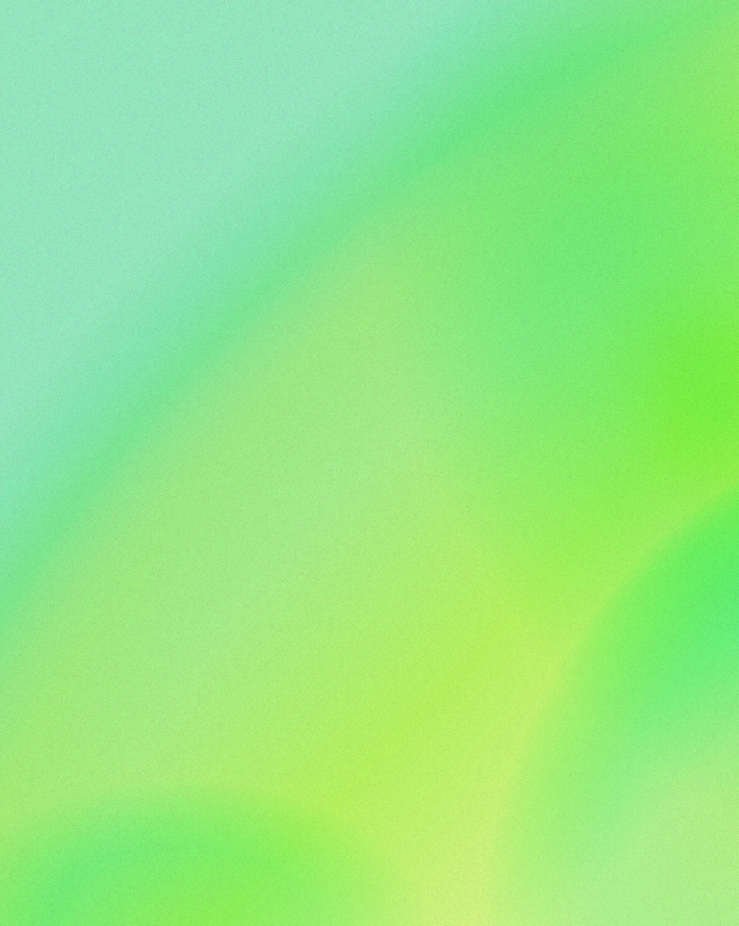
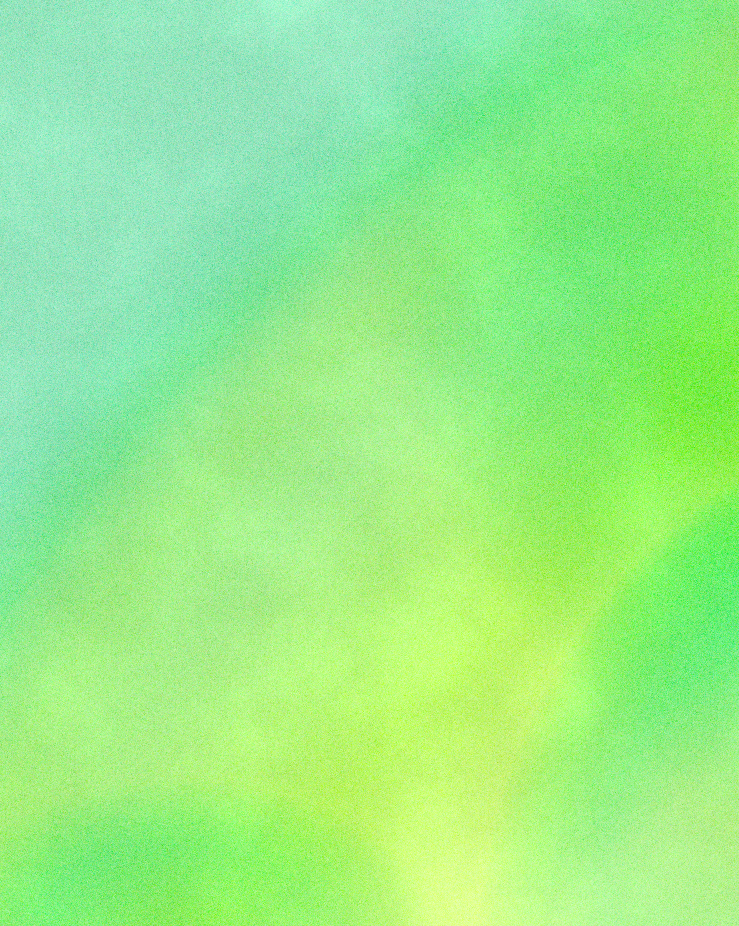
-

diff --git a/style.css b/style.css
@@ -1,72 +1,24 @@
-/*
-:root{
- 
-	--1c:#F1FFCC;
-	--1ch:#FFFCE9;
-	--1s:#F1FFE0;
-	--1sh:#FFF7E0;
-	--1co:#2b5743;
-	--1coh:#622947;
-	
-	--2c:#9dd566;
-	--2ch:#792e56;
-	--2s:#94e367;
-	--2sh:#ae5c87;
-	--2co:#E9FFF0;
-	--2coh:#FED9E5;
-	
-	--3c:#403c73;
-	--3ch:#792e56;
-	--3s:#554f9b;
-	--3sh:#ae5c87;
-	--3co:#E9FFF0;
-	--3coh:#FED9E5;
-	
-	--bg1:#812E53;
-	--bg2:#ac4374;
-	--bg3:#D04B77;
-	
-	--brdrR:40px;
-	--glblShadow:inset 0px 0px 10px;
-	--glblShadow2:0px 2px 4px rgba(0,0,0,.1) , 0px 4px 10px rgba(0,0,0,.1);
-	--glblShadow3:inset 0px 0px 0px 1px rgba(255,255,255,.2);
-	
-	--boxs1:var(--glblShadow3),var(--glblShadow) var(--1s),var(--glblShadow2);
-	--boxs1h:var(--glblShadow) var(--1sh);
-	
-	--boxs2:var(--glblShadow3),var(--glblShadow) var(--2s),var(--glblShadow2);
-	--boxs2h:var(--glblShadow) var(--2sh);
-	
-	--boxs3:var(--glblShadow3),var(--glblShadow) var(--3s),var(--glblShadow2);
-	--boxs3h:var(--glblShadow3),var(--glblShadow) var(--3s),var(--glblShadow2);
-	
-	
-}
-	.card.event,.card.drawer,.tiktok,.instagram,.spotify
-	{
-		border-radius: 99px !important;
-}
-	*/
 :root{
 	--:#;
 	
-	--1c:#FFE8F0;
-	--1ch:#FFFCE9;
-	--1s:#E7FFC9;
-	--1sh:#FFF7E0;
-	--1co:#3e0f25;
-	--1coh:#622947;
+	--1c:#E5FFF0;
+	--1ch:#F2F9F0;
+	--1s:#F0FCE9;
+	--1sh:#FFFAEA;
+	--1co:#2b4610;
+	--1coh:#5a882d;
 	
-	--2c:#FFE8F0;
-	--2ch:#792e56;
-	--2s:#ceffd1;
-	--2sh:#ae5c87;
+	--2c:#EEFFF7;
+	--2ch:#f6fdf6;
+	--2s:#b1ffb6b0;
+	--2sh:#d7ff9e;
 	--2co:#E9FFF0;
 	--2coh:#FED9E5;
 	
 	--3c:#8e2278;
-	--3ch:#842156;
-	--3s:#d52498;
+	--3c:linear-gradient(120.14deg, #D8DB49 0%, #38D3CA 98.67%), linear-gradient(0deg, #C8B44D, #C8B44D);;
+	--3ch:linear-gradient(120.14deg, #D8DBF9 0%, #38D3CA 98.67%), linear-gradient(0deg, #C8B44D, #C8B44D);;
+	--3s:#86ff9fa6;
 	--3sh:#ae5c87;
 	--3co:#E9FFF0;
 	--3coh:#FED9E5;
@@ -77,14 +29,14 @@
 	
 	--brdrR:40px;
 	--glblShadow:inset 0px 0px 10px;
-	--glblShadow2:0px 2px 4px rgba(0,0,0,.1) , 0px 4px 10px rgba(0,0,0,.1);
+	--glblShadow2:0px 0px 4px rgba(0,0,0,.05) , 0px 4px 10px rgba(0,0,0,.1);
 	--glblShadow3:inset 0px 0px 0px 1px rgba(255,255,255,.2);
 	
-	--boxs1:var(--glblShadow3),var(--glblShadow) var(--1s),var(--glblShadow2);
-	--boxs1h:var(--glblShadow) var(--1sh);
+	--boxs1:var(--glblShadow3),var(--glblShadow) var(--1sh),var(--glblShadow2);
+	--boxs1h:var(--glblShadow3),var(--glblShadow) var(--1sh);
 	
 	--boxs2:var(--glblShadow3),var(--glblShadow) var(--2s),var(--glblShadow2);
-	--boxs2h:var(--glblShadow) var(--2sh);
+	--boxs2h:var(--glblShadow3),var(--glblShadow) var(--2sh),var(--glblShadow2);
 	
 	--boxs3:var(--glblShadow3),var(--glblShadow) var(--3s),var(--glblShadow2);
 	--boxs3h:var(--glblShadow3),var(--glblShadow) var(--3s),var(--glblShadow2);
@@ -115,7 +67,7 @@ body
   font-weight: 400;
 	background-blend-mode:;
 	background-repeat: repeat;
-
+  background:var(--1c)
 }
 @font-face
 {
@@ -263,7 +215,7 @@ header::after
 	color: var(--3co);
 	font-size:35px;
 	/*! border-radius: 0px 0px var(--brdrR) var(--brdrR); */
-	/*! overflow: hidden; */
+	overflow: hidden;
 	/*! box-shadow: var(--boxs3); */
 }
 
@@ -335,7 +287,6 @@ header::after
 	font-weight: bold;
 	background:var(--1c);
 	color:var(--1co);
-
 }
 .card.tiktok,.card.instagram,.card.spotify
 {
@@ -350,21 +301,21 @@ header::after
 .card.tiktok
 {
 	background:url('tik.svg') center no-repeat var(--2c) !important;		
-	background-size:50%;
+	background-size:50% 50% !important;
 	margin:5% calc(5%/3) 5% 5% !important;
 
 }
 .card.instagram
 {
 	background:url('ing.svg') center no-repeat var(--2c) !important;		
-	background-size:60%;
+	background-size:50% 50% !important;
 	margin:5% calc(5%/3) 5% calc(5%/3) !important;
 
 }
 .card.spotify
 {
 	background:url('spo.png') center no-repeat var(--2c) !important;		
-	background-size:34% !important;
+	background-size:28% !important;
 	margin:5% 5% 5% calc(5%/3) !important;
 
 }
@@ -379,7 +330,7 @@ header::after
 
 img.card
 {
-	background:black;
+	background:var(--1c);
 	box-shadow: none;
 }
 .card.text
@@ -495,7 +446,7 @@ img.card
 	}
 		#title
 	{
-		font-size:50px;
+		font-size:42px;
 		height: 100%;
 	}
 	#drawerOverlay
@@ -511,10 +462,9 @@ img.card
 		border-radius: var(--brdrR) !important;
 		
 	}
-}
-@media (min-width:1000px)
-{
-	
+	#bg
+	{
+	}
   body
 	{
 		left: 10%;
@@ -541,10 +491,15 @@ img.card
 		color:var(--1coh);
 		box-shadow: var(--boxs1h);
 	}
-	.card.spotify:hover,.card.instagram:hover,.card.tiktok:hover,#title:hover
+	.card.spotify:hover,.card.instagram:hover,.card.tiktok:hover
 	{
 		background-color: var(--2ch) !important;
 		box-shadow: var(--boxs2h);
+	}
+	#title:hover
+	{
+		/*background-color: var(--3ch) !important;*/
+		/*! box-shadow: var(--boxs3h); */
 	}
 }
 
@@ -552,21 +507,21 @@ img.card
 	:root{
 
 	--1c:url('bg.png') #FFD9E7;
-	--1c:#553C73;
-	--1ch:#FFF;
-	--1s:#5B4D99;
-	--1sh:#FFF;
+	--1c:#403C73;
+	--1ch:#373364;
+	--1s:#5D5097;
+	--1sh:#5C3D9F;
 	--1co:#e1f7ff;
-	--1coh:#622947;
+	--1coh:#e0e1ff;
 	
-	--2c:#553c73;
-	--2ch:#792e56;
-	--2s:#5c4f9b;
-	--2sh:#ae5c87;
+	--2c:#3c386a;
+	--2ch:#2b2053;
+	--2s:#5a4ba4;
+	--2sh:#5d5293;
 	--2co:#E9FFF0;
 	--2coh:#FED9E5;
 		
-	--3c:#403c73;
+	--3c:linear-gradient(120.14deg, #4F386B -10.72%, #332E6B 30.19%, #332E6B 60.19%, #388C82 120.19%);
 	--3ch:#792e56;
 	--3s:#554f9b;
 	--3sh:#ae5c87;
@@ -576,8 +531,8 @@ img.card
 	--bg1:#812E53;
 	--bg2:#ac4374;
 	--bg3:#D04B77;	
+		
 	--glblShadow3:inset 0px 0px 0px 1px rgba(0,0,0,.1);
-	
 	}
 
 	

diff --git a/index.html b/index.html
@@ -4,7 +4,7 @@
 		<meta charset="utf-8">
     <link rel="stylesheet" href="style.css">
 		<title>Martha May</title>
-		<link rel="icon" href="m.svg">
+		<link rel="icon" href="fav.svg">
     <meta name="viewport" content="width=device-width, initial-scale=1.0">
 		<meta name="viewport" content="height=device-height, initial-scale=1.0">
 		<link rel="preconnect" href="https://fonts.googleapis.com">
@@ -65,7 +65,7 @@
 						 performances lined up and a debut album due for early 2022 release,
 						 an artist like no other is poised to make her mark on the world.
 					</div>
-					<img src="c4.jpg" class="card">
+					<img src="c1.jpg" class="card">
 					<div class="card text">
 						Watch this space!
 					</div>
